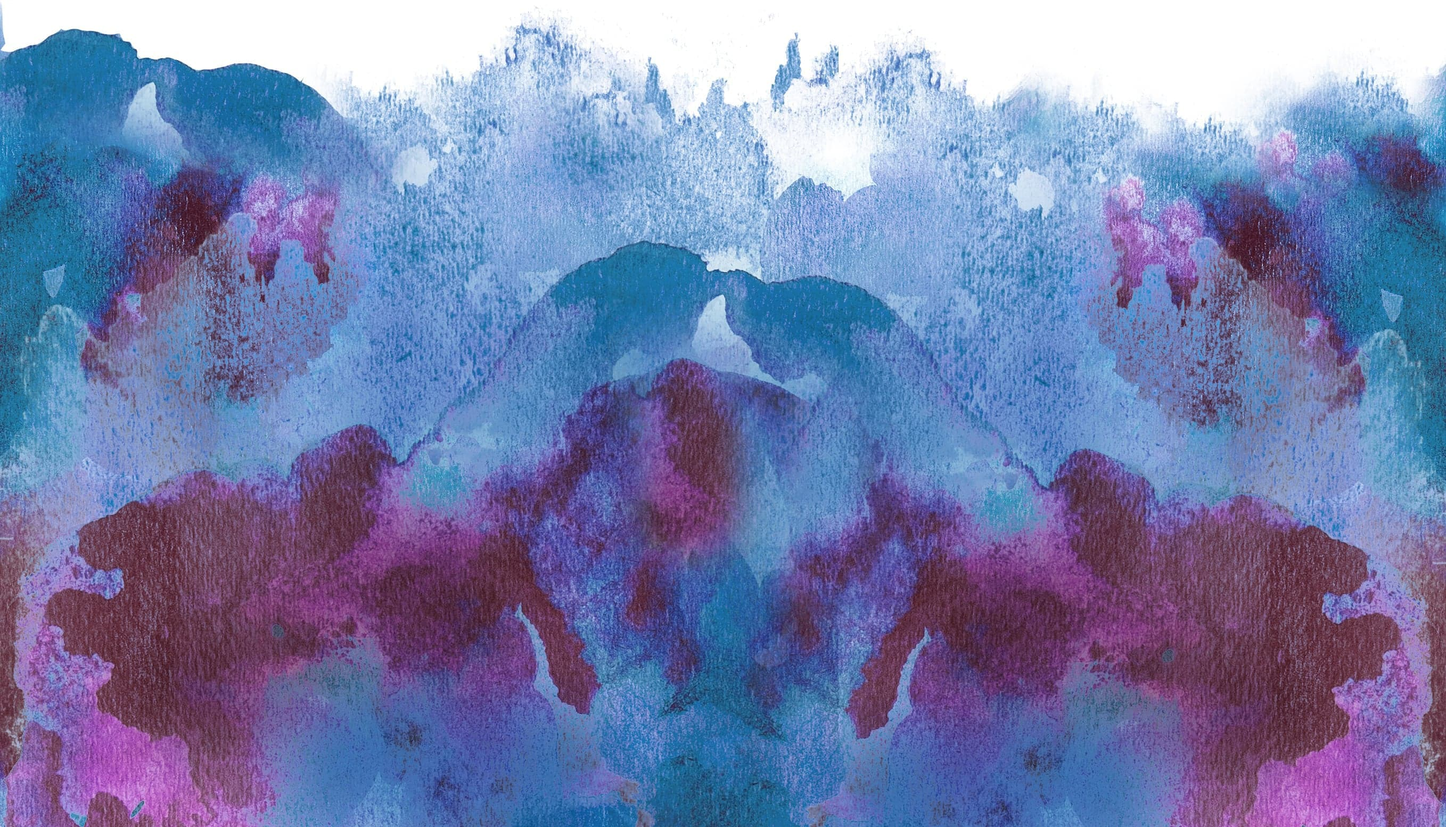
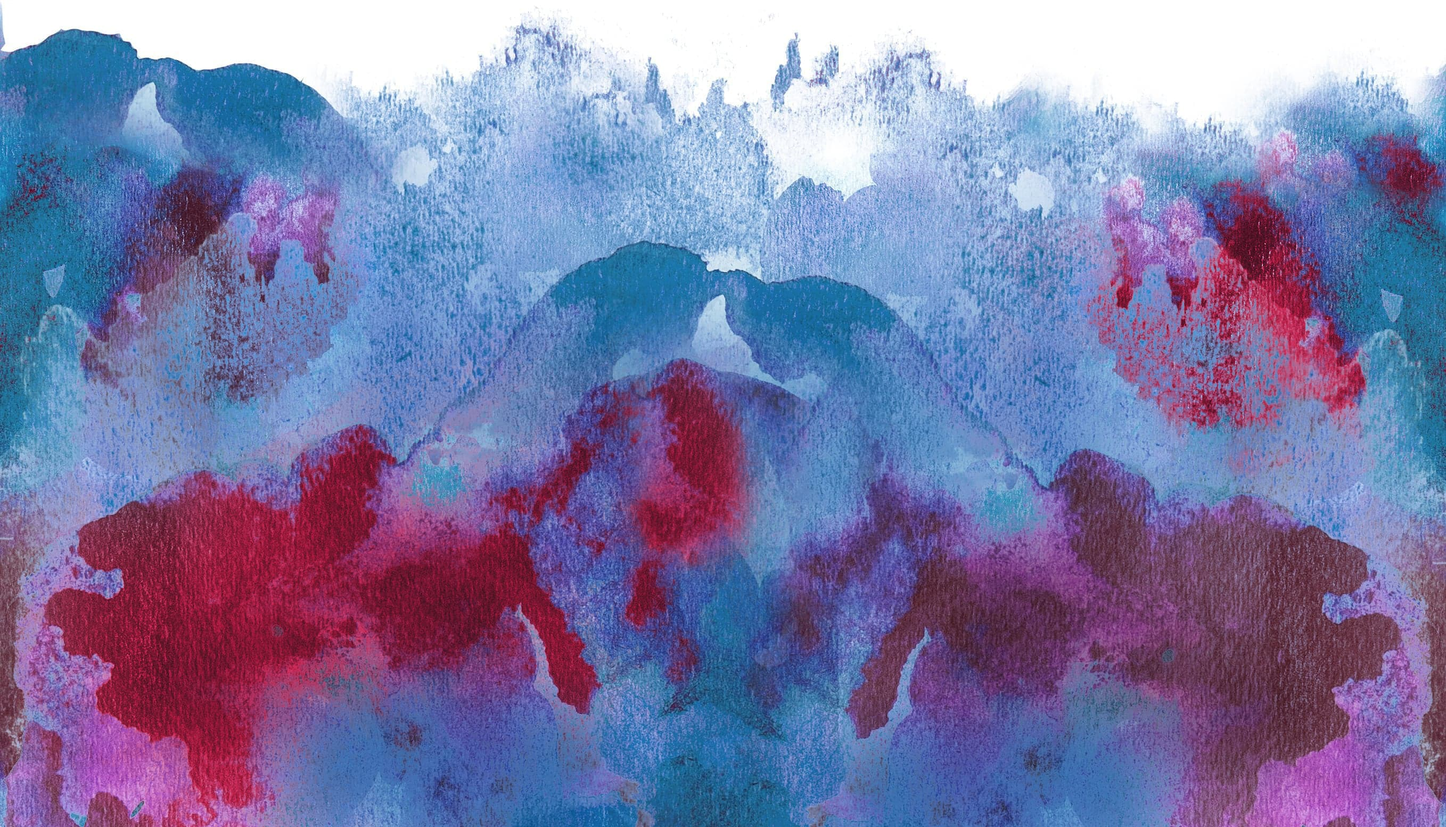
color update

diff --git a/_sass/_layout.scss b/_sass/_layout.scss
@@ -36,9 +36,9 @@ padding:0;}
 /* The animation code */
 @keyframes thecolor {
 0% { box-shadow: 0 0 0 12px #006584, 0 0 0 14px #ffffff; }
-25% { box-shadow: 0 0 0 12px #841733, 0 0 0 14px #ffffff; }
-50% { box-shadow: 0 0 0 12px #a45a8f, 0 0 0 14px #ffffff; }
-75% { box-shadow: 0 0 0 12px #6c2738, 0 0 0 14px #ffffff; }
+25% { box-shadow: 0 0 0 12px #b51a1a, 0 0 0 14px #ffffff; }
+50% { box-shadow: 0 0 0 12px #50484a, 0 0 0 14px #ffffff; }
+75% { box-shadow: 0 0 0 12px #681b31, 0 0 0 14px #ffffff; }
 100% { box-shadow: 0 0 0 12px #006584, 0 0 0 14px #ffffff; }
 }
 
